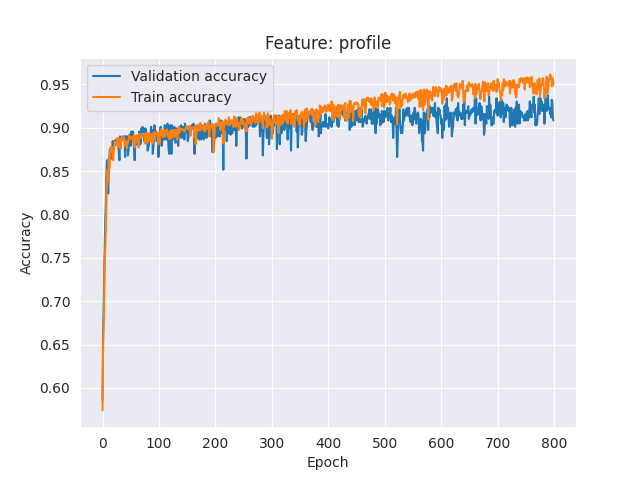
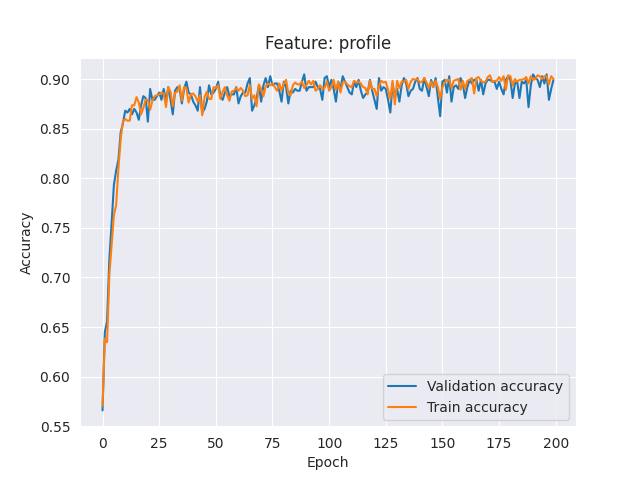
first attempt for spreading pattern only with GDL

diff --git a/src/train.py b/src/train.py
@@ -83,10 +83,11 @@ def train(model, loader, optimizer, loss_fn, val_loader=None, scheduler=None):
 
 
 if __name__ == "__main__":
-    default_epochs = 800
+    default_epochs = 200
     default_dataset = "gossipcop"
-    default_feature = "bert"#"content"
+    default_feature = "profile"
     default_batch_size = 128
+    default_no_features = False
 
     parser = argparse.ArgumentParser(description="Experiments on our models")
     parser.add_argument(
@@ -101,6 +102,12 @@ if __name__ == "__main__":
         default=default_feature,
         help="Features to use (content, bert, spacy, profile)",
     )
+    parser.add_argument(
+        "--no_features",
+        type = bool,
+        default=default_no_features,
+        help="If true, no features are used",
+    )        
     parser.add_argument(
         "--epochs",
         type=int,
@@ -118,12 +125,11 @@ if __name__ == "__main__":
     )
 
     args = parser.parse_args()
-    print(args.features)
-
-    # Set the random seed for reproducible experiments
-    torch.manual_seed(0)
-
-    dm = DatasetManager(args.dataset, args.features, args.batch_size)
+    if args.no_features is False: 
+        print(args.features)
+    else: 
+        print("No features")
+    dm = DatasetManager(args.dataset, args.features, args.no_features, args.batch_size)
 
     # Create the data loaders
     train_loader = dm.get_train_loader()
@@ -133,16 +139,11 @@ if __name__ == "__main__":
     print("Number of validation samples: ", dm.dataset.val_mask.sum().item())
     print("Number of test samples: ", dm.dataset.test_mask.sum().item())
     print("Number of features: ", dm.get_num_features())
-    #print % selected for train valid and test
-    print("Percentage of training samples: ", dm.dataset.train_mask.sum().item()/dm.dataset.train_mask.shape[0])
-    print("Percentage of validation samples: ", dm.dataset.val_mask.sum().item()/dm.dataset.val_mask.shape[0])
-    print("Percentage of test samples: ", dm.dataset.test_mask.sum().item()/dm.dataset.test_mask.shape[0])
-    
 
     # Create the model
 
     # dm.get_num_features renvoie le nombre de features
-    model = GCNFN(dm.get_num_features())
+    model = GCNFN(dm.get_num_features(), args.no_features)
     # model = ModifiedGCNFN(dm.get_num_features())
     # model = NoConvNet(dm.get_num_features())
 
@@ -200,7 +201,10 @@ if __name__ == "__main__":
     # )
     plt.xlabel("Epoch")
     plt.ylabel("Accuracy")
-    plt.title(f"Feature: {args.features}")
+    if args.no_features is False: 
+        plt.title(f"Feature: {args.features}")
+    else:
+        plt.title("No features")
     plt.legend()
 
     plt.savefig(os.path.join(img_path, f"accuracy_{args.features}.png"))

diff --git a/src/model.py b/src/model.py
@@ -22,7 +22,7 @@ os.environ["DGLBACKEND"] = "pytorch"
 
 
 class GCNFN(nn.Module):
-    def __init__(self, in_channels, n_hidden=64, n_classes=2):
+    def __init__(self, in_channels, no_features, n_hidden=64, n_classes=2):
         super(GCNFN, self).__init__()
         # print('n_hidden: ', n_hidden)
         # print('in_channels: ', in_channels)
@@ -34,8 +34,14 @@ class GCNFN(nn.Module):
         self.fc2 = nn.Linear(int(n_hidden / 2), n_classes)
         self.selu = nn.SELU()
         self.log_softmax = nn.LogSoftmax(dim=1)
+        self.no_features = no_features
 
     def forward(self, g, x):
+        if self.no_features: 
+            # replace x by one
+            #print("x shape before replacing by ones", x.shape)
+            x = torch.ones((x.shape[0], 1))
+            #print("x shape after replacing by ones", x.shape)
         # print data attributes
         # print(g.ndata)
         with g.local_scope():  # To avoid changes to the original graph

diff --git a/src/dataset.py b/src/dataset.py
@@ -6,13 +6,14 @@ from dgl.dataloading import GraphDataLoader
 
 
 class DatasetManager:
-    def __init__(self, dataset_name, features_name, batch_size):
+    def __init__(self, dataset_name, features_name, no_features, batch_size):
         self.path = os.path.join(
             os.path.dirname(os.path.realpath(__file__)), "..", "data", "FakeNews"
         )
         self.dataset = FakeNewsDataset(dataset_name, features_name, self.path)
         self.dataset.process()
         self.batch_size = batch_size
+        self.no_features = no_features
 
     def get_train_loader(self):
         train_indices = torch.nonzero(self.dataset.train_mask).squeeze()
@@ -72,4 +73,7 @@ class DatasetManager:
         return self.dataset.labels
 
     def get_num_features(self):
-        return self.dataset.feature.shape[1]
+        if self.no_features:
+            return 1
+        else:
+            return self.dataset.feature.shape[1]
